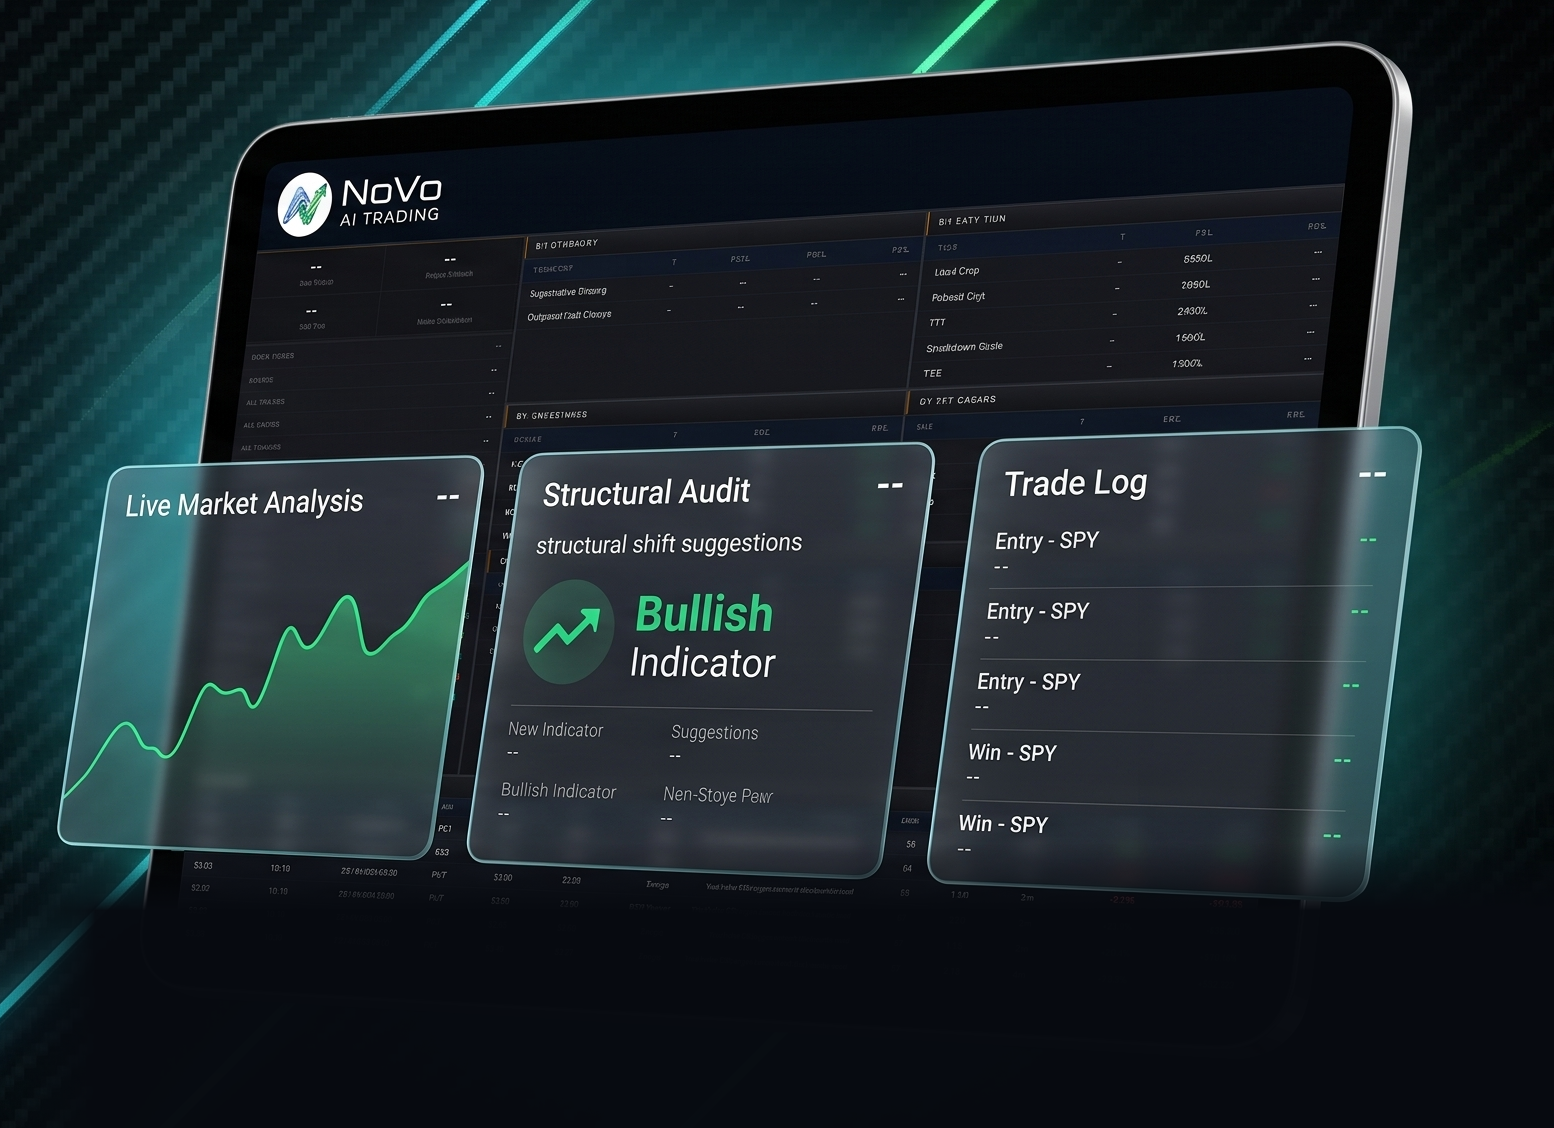
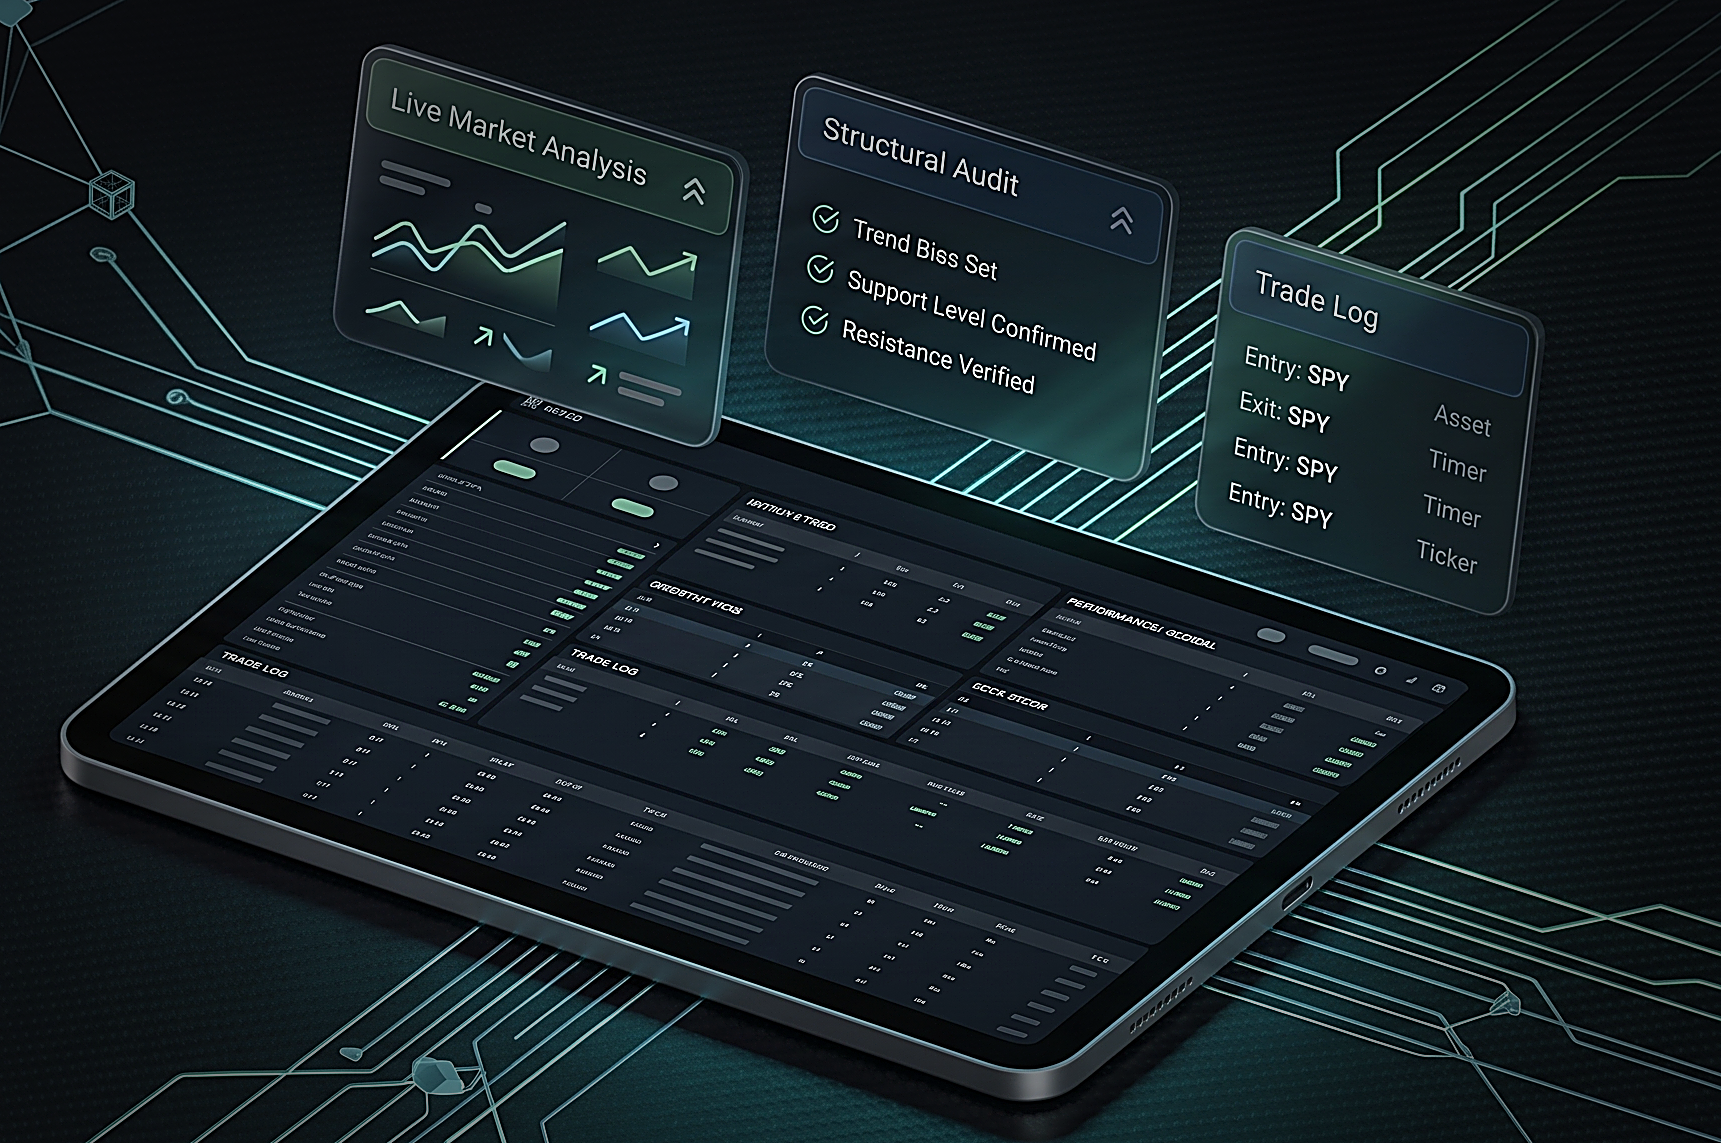
Store hero: swap to the cleaner tablet render (cropped, sharpened, edge vignette)
Replaced the hero product visual with the newer Gemini tablet render — cropped to the device + the three
floating cards (Live Market Analysis / Structural Audit checkmarks / Trade Log), sharpened (unsharp mask),
and edge-vignetted so it blends into the dark hero background. Cleaner cards, no P&L figures. Bumped the
cache-buster to v=2 and widened the hero image to 820px.

Claude-Session: https://claude.ai/code/session_014ZwhNDgHEmcm885xfefGQR

diff --git a/public/index.html b/public/index.html
@@ -380,7 +380,7 @@
     <div class="hero-badge">AI-Powered &nbsp;·&nbsp; Structure. Speed. Intelligence.<br>Trade differently, Trade simply.</div>
     <h1>Set your rules.<br><span>NoVo takes it from there.</span></h1>
     <p>NoVo is a simple tool with high intelligence — built for SPY options scalpers and day traders tired of staring at five charts, tracking every data stream, white-knuckling every tick, and still missing the entry.</p>
-    <div style="max-width:780px;margin:34px auto 6px;"><img src="/screenshots/hero-product.png?v=1" alt="NoVo dashboard — live market analysis, structural audit, and trade log on tablet and mobile" style="width:100%;height:auto;display:block;border-radius:16px;box-shadow:0 30px 90px rgba(0,0,0,.55);" loading="eager"></div>
+    <div style="max-width:820px;margin:34px auto 6px;"><img src="/screenshots/hero-product.png?v=2" alt="NoVo dashboard — live market analysis, structural audit, and trade log" style="width:100%;height:auto;display:block;border-radius:16px;box-shadow:0 30px 90px rgba(0,0,0,.55);" loading="eager"></div>
     <p style="font-size:22px;font-weight:900;color:var(--txt1);letter-spacing:0.08em;margin:28px auto;max-width:600px;">ONE TICKER. MASTERED. AUTONOMOUS.</p>
     <p>NoVo does the heavy lifting. Finds the entry, sizes the position, manages the trade, and exits the instant your rules dictate. Zero hesitation. Zero fatigue. Zero revenge trades. Feeding off the markets data and rewriting his own entry playbook every week using real market results, while never executing a single tick outside the risk boundaries you set.</p>
     <p class="hero-clarify">Not a copy bot. Not a signal service. Not a congressman trade tracker.<br>Your rules, executed faster than human reflexes — by a partner that never blinks, never tires, never hesitates.</p>